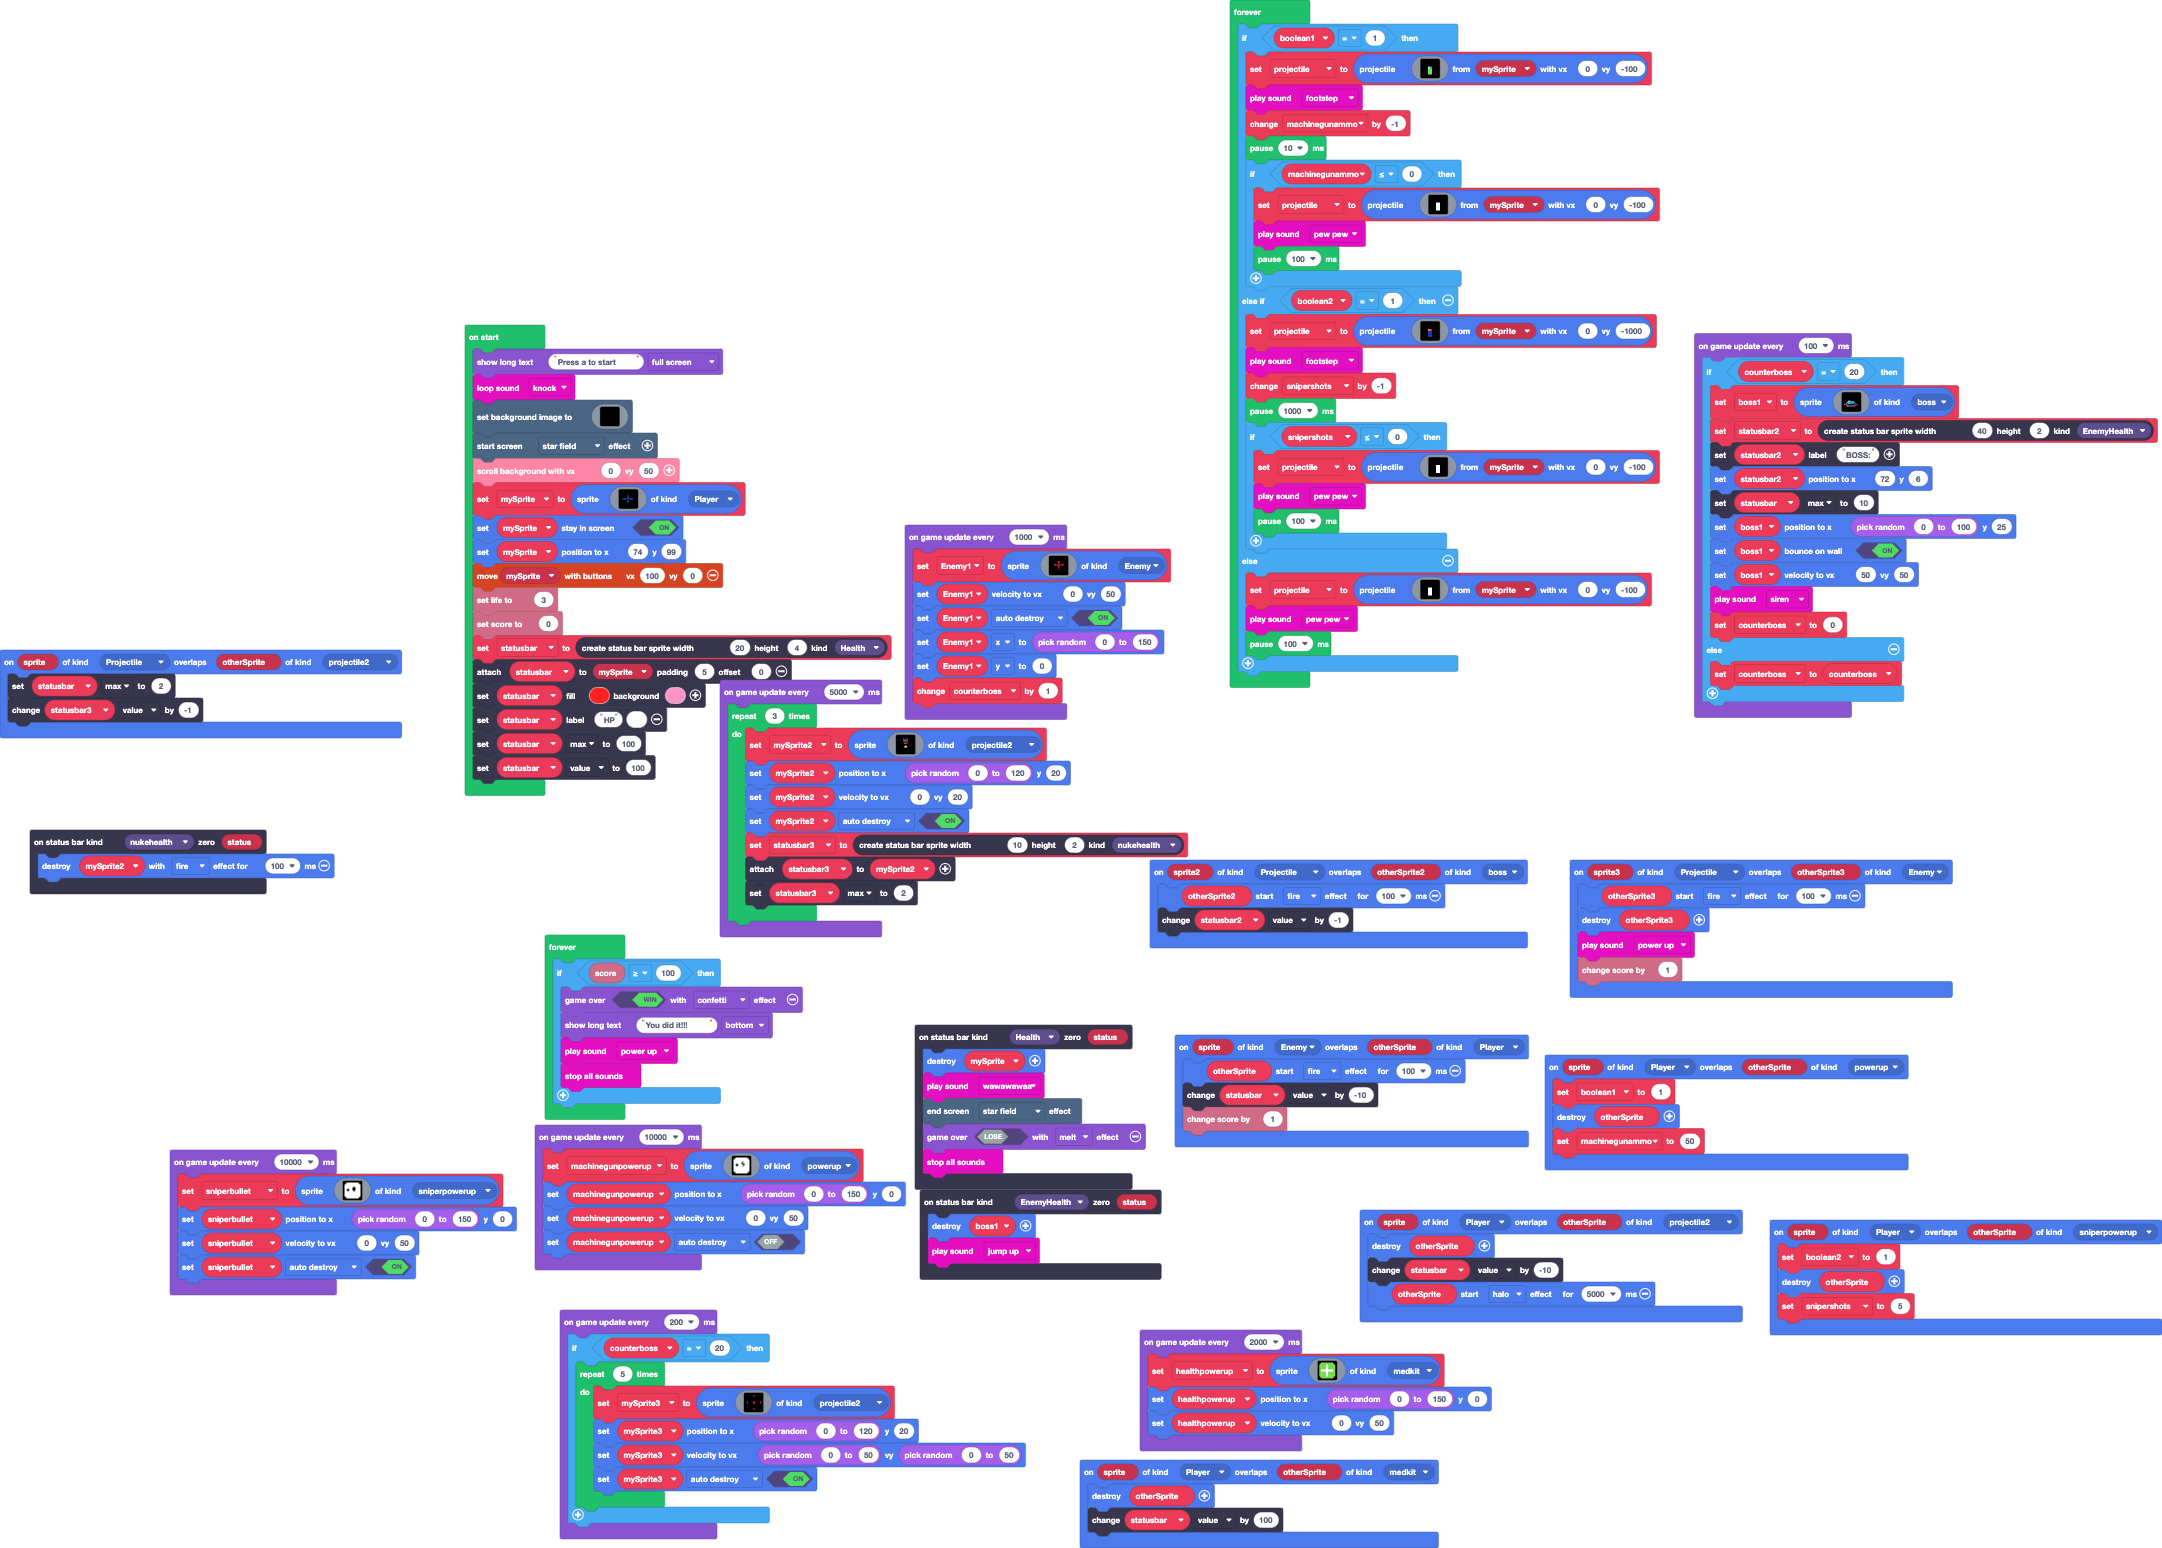
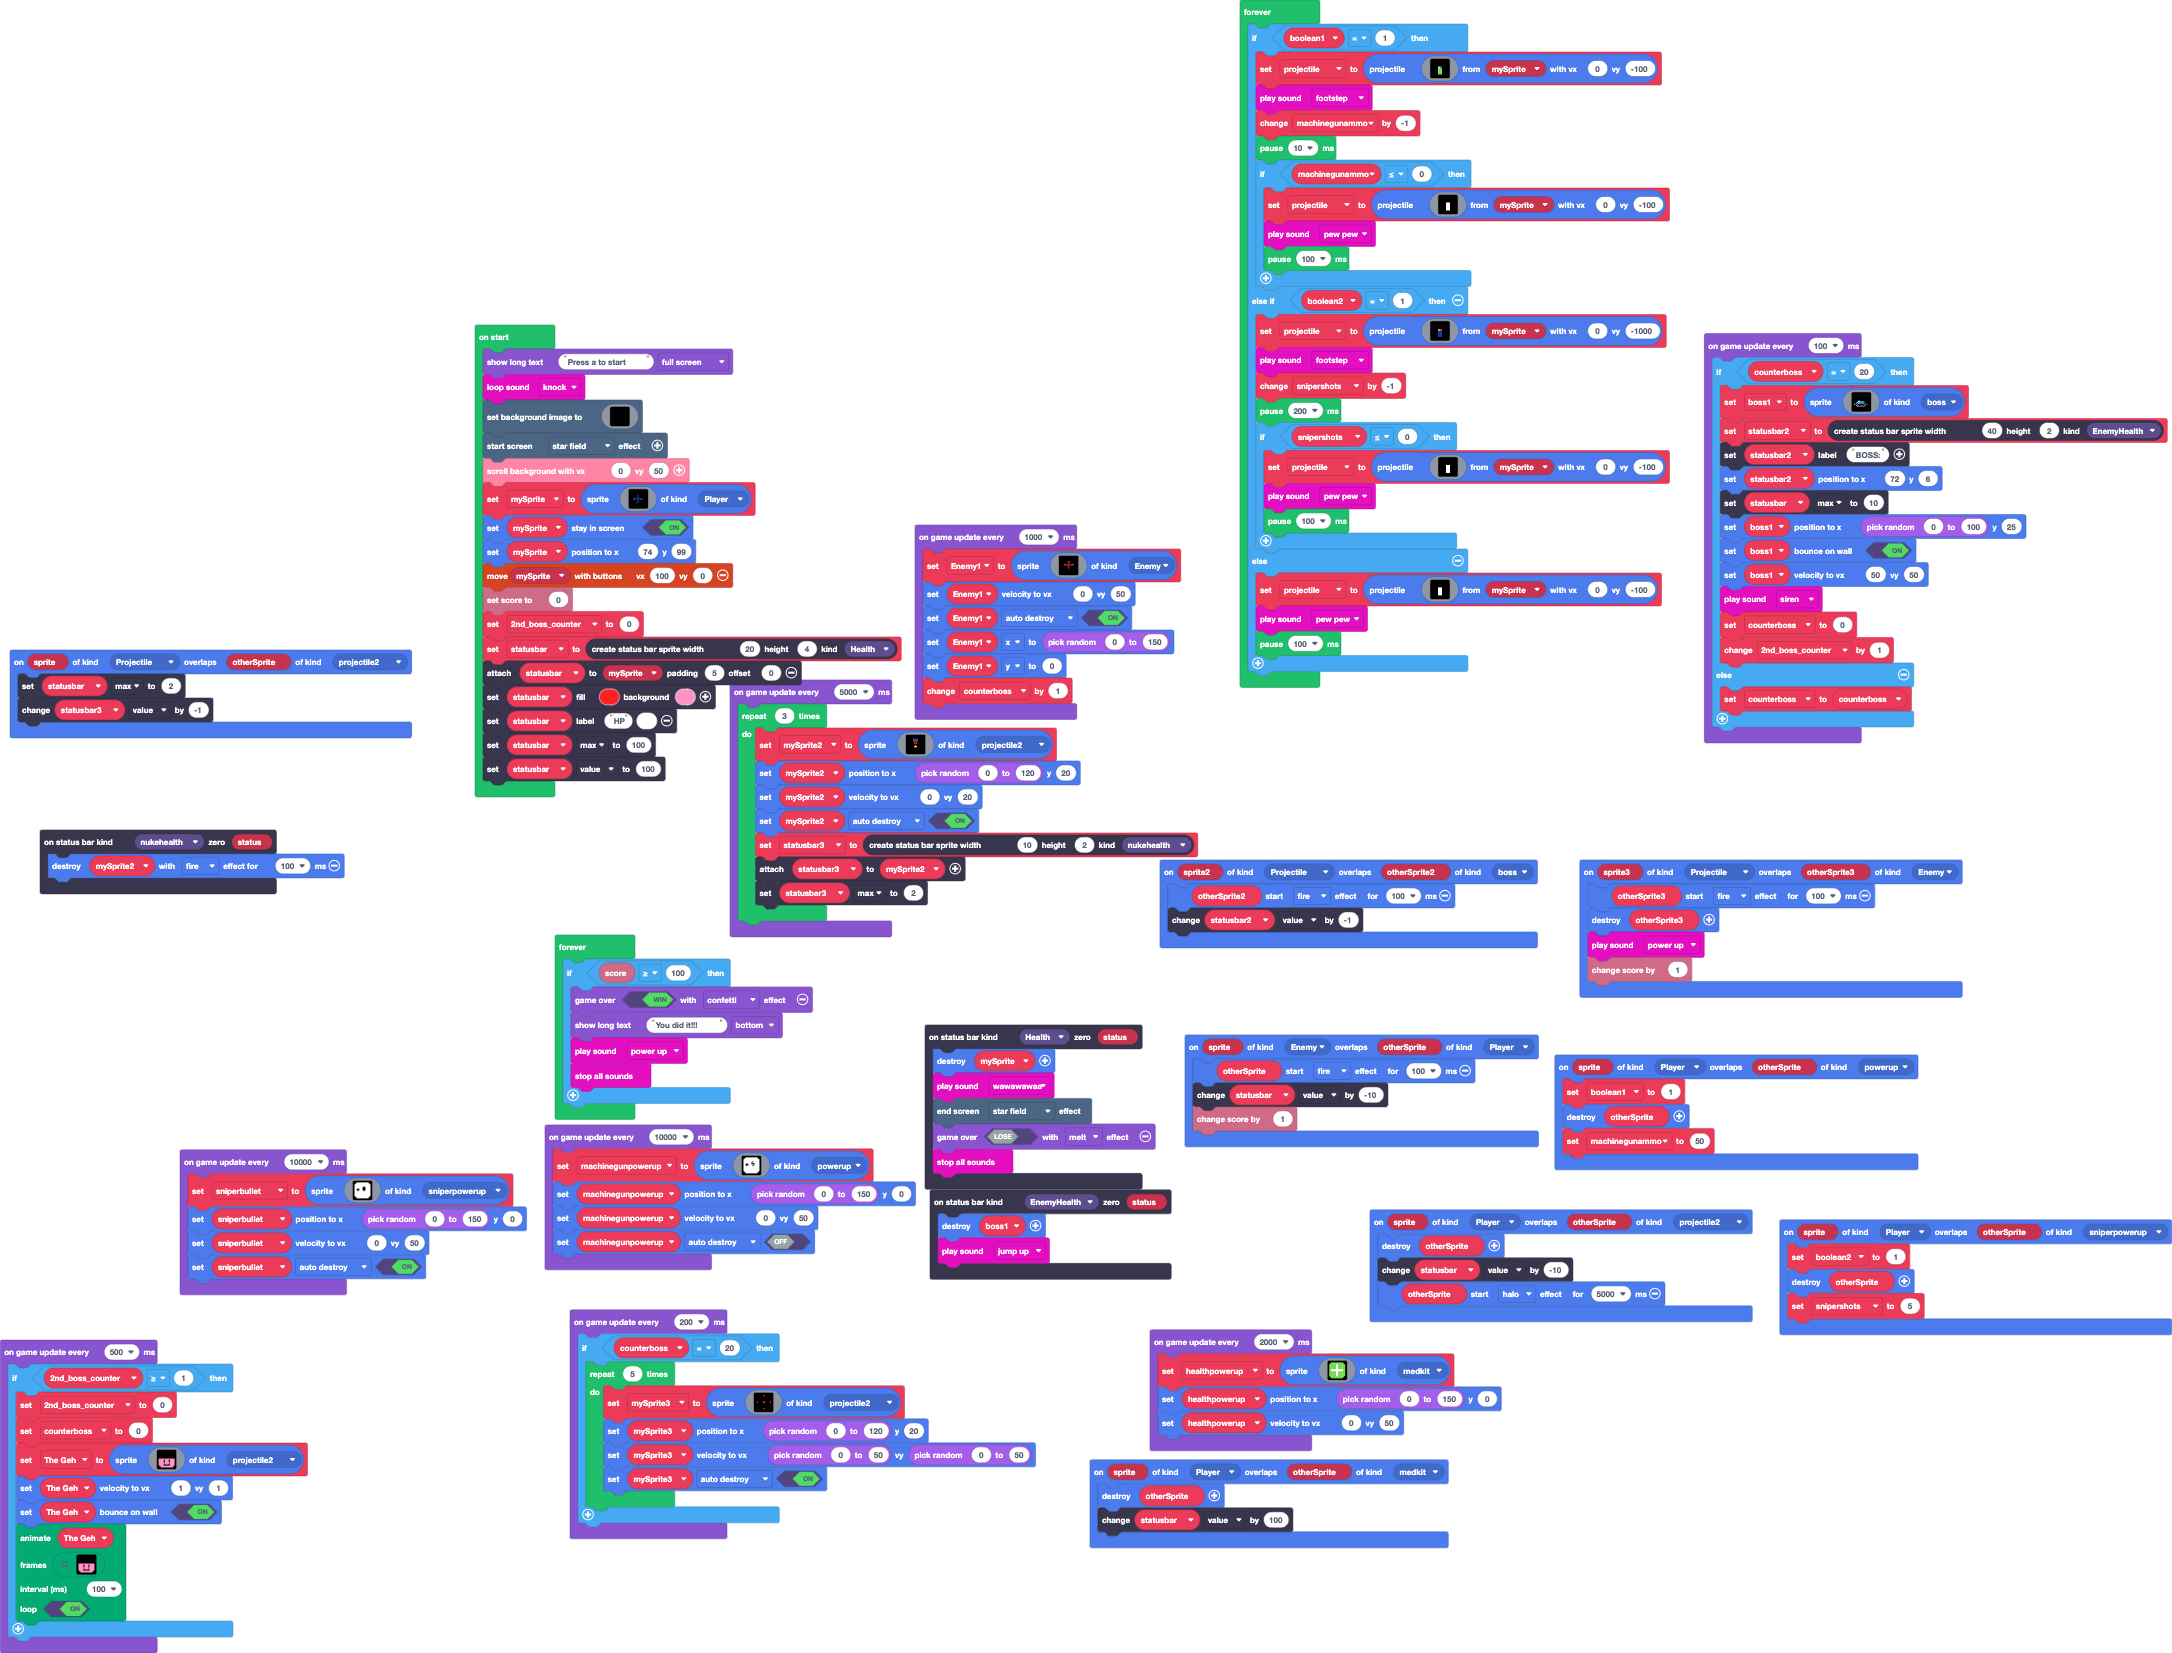
added another boss called "The GEH"

diff --git a/main.ts b/main.ts
@@ -65,6 +65,7 @@ sprites.onOverlap(SpriteKind.Projectile, SpriteKind.boss, function (sprite2, oth
 let sniperbullet: Sprite = null
 let machinegunpowerup: Sprite = null
 let mySprite3: Sprite = null
+let The_Geh: Sprite = null
 let projectile: Sprite = null
 let counterboss = 0
 let Enemy1: Sprite = null
@@ -226,8 +227,8 @@ mySprite = sprites.create(img`
 mySprite.setStayInScreen(true)
 mySprite.setPosition(74, 99)
 controller.moveSprite(mySprite, 100, 0)
-info.setLife(3)
 info.setScore(0)
+let _2nd_boss_counter = 0
 statusbar = statusbars.create(20, 4, StatusBarKind.Health)
 statusbar.attachToSprite(mySprite, 5, 0)
 statusbar.setColor(2, 3)
@@ -367,7 +368,7 @@ forever(function () {
             `, mySprite, 0, -1000)
         music.footstep.play()
         snipershots += -1
-        pause(1000)
+        pause(200)
         if (snipershots <= 0) {
             projectile = sprites.createProjectileFromSprite(img`
                 . . . . . . . . 
@@ -405,6 +406,38 @@ forever(function () {
         music.stopAllSounds()
     }
 })
+game.onUpdateInterval(500, function () {
+    if (_2nd_boss_counter >= 1) {
+        _2nd_boss_counter = 0
+        counterboss = 0
+        The_Geh = sprites.create(img`
+            . . f f f f f f f f f f f f . . 
+            . f f f f f f f f f f f f f f . 
+            f f f f f f f f f f f f f f f f 
+            f f f f f f f f f f f f f f f f 
+            f f f f f f f f f f f f f f f f 
+            f f f f f f f f f f f f f f f f 
+            f f f f f f f f f f f f f f f f 
+            3 3 3 3 3 3 3 3 3 3 3 3 3 3 3 3 
+            3 3 3 3 3 f 3 3 3 3 f 3 3 3 3 3 
+            3 3 3 3 3 f 3 3 3 3 f 3 3 3 3 3 
+            3 3 3 3 3 f 3 3 3 3 f 3 3 3 3 3 
+            3 3 3 3 3 3 3 3 3 3 3 3 3 3 3 3 
+            3 3 3 3 3 f 3 3 3 3 f 3 3 3 3 3 
+            3 3 3 3 3 f f f f f f 3 3 3 3 3 
+            . 3 3 3 3 3 3 3 3 3 3 3 3 3 3 . 
+            . . 3 3 3 3 3 3 3 3 3 3 3 3 . . 
+            `, SpriteKind.projectile2)
+        The_Geh.setVelocity(1, 1)
+        The_Geh.setBounceOnWall(true)
+        animation.runImageAnimation(
+        The_Geh,
+        assets.animation`Eric the GEH`,
+        100,
+        true
+        )
+    }
+})
 game.onUpdateInterval(100, function () {
     if (counterboss == 20) {
         boss1 = sprites.create(assets.image`Boss`, SpriteKind.boss)
@@ -417,6 +450,7 @@ game.onUpdateInterval(100, function () {
         boss1.setVelocity(50, 50)
         music.siren.play()
         counterboss = 0
+        _2nd_boss_counter += 1
     } else {
         counterboss = counterboss
     }

diff --git a/images.g.ts b/images.g.ts
@@ -28,7 +28,76 @@ f b c c c f f f f f f c c c c f
 
     helpers._registerFactory("animation", function(name: string) {
         switch(helpers.stringTrim(name)) {
-
+            case "Eric the GEH":
+            case "anim1":return [img`
+. . f f f f f f f f f f f f . . 
+. f f f f f f f f f f f f f f . 
+f f f f f f f f f f f f f f f f 
+f f f f f f f f f f f f f f f f 
+f f f f f f f f f f f f f f f f 
+f f f f f f f f f f f f f f f f 
+f f f f f f f f f f f f f f f f 
+3 3 3 3 3 3 3 3 3 3 3 3 3 3 3 3 
+3 3 3 3 3 f 3 3 3 3 f 3 3 3 3 3 
+3 3 3 3 3 f 3 3 3 3 f 3 3 3 3 3 
+3 3 3 3 3 f 3 3 3 3 f 3 3 3 3 3 
+3 3 3 3 3 3 3 3 3 3 3 3 3 3 3 3 
+3 3 3 3 3 f 3 3 3 3 f 3 3 3 3 3 
+3 3 3 3 3 f f f f f f 3 3 3 3 3 
+. 3 3 3 3 3 3 3 3 3 3 3 3 3 3 . 
+. . 3 3 3 3 3 3 3 3 3 3 3 3 . . 
+`, img`
+. . 3 3 3 3 3 3 3 f f f f f . . 
+. 3 3 3 3 3 3 3 3 f f f f f f . 
+3 3 3 3 3 3 3 3 3 f f f f f f f 
+3 3 3 3 3 3 3 3 3 f f f f f f f 
+3 3 3 3 3 3 3 3 3 f f f f f f f 
+3 3 f f 3 f f f 3 f f f f f f f 
+3 3 f 3 3 3 3 3 3 f f f f f f f 
+3 3 f 3 3 3 3 3 3 f f f f f f f 
+3 3 f 3 3 3 3 3 3 f f f f f f f 
+3 3 f 3 3 3 3 3 3 f f f f f f f 
+3 3 f f 3 f f f 3 f f f f f f f 
+3 3 3 3 3 3 3 3 3 f f f f f f f 
+3 3 3 3 3 3 3 3 3 f f f f f f f 
+3 3 3 3 3 3 3 3 3 f f f f f f f 
+. 3 3 3 3 3 3 3 3 f f f f f f . 
+. . 3 3 3 3 3 3 3 f f f f f . . 
+`, img`
+. . 3 3 3 3 3 3 3 3 3 3 3 3 . . 
+. 3 3 3 3 3 3 3 3 3 3 3 3 3 3 . 
+3 3 3 3 3 f f f f f f 3 3 3 3 3 
+3 3 3 3 3 f 3 3 3 3 f 3 3 3 3 3 
+3 3 3 3 3 3 3 3 3 3 3 3 3 3 3 3 
+3 3 3 3 3 f 3 3 3 3 f 3 3 3 3 3 
+3 3 3 3 3 f 3 3 3 3 f 3 3 3 3 3 
+3 3 3 3 3 f 3 3 3 3 f 3 3 3 3 3 
+3 3 3 3 3 3 3 3 3 3 3 3 3 3 3 3 
+f f f f f f f f f f f f f f f f 
+f f f f f f f f f f f f f f f f 
+f f f f f f f f f f f f f f f f 
+f f f f f f f f f f f f f f f f 
+f f f f f f f f f f f f f f f f 
+. f f f f f f f f f f f f f f . 
+. . f f f f f f f f f f f f . . 
+`, img`
+. . f f f f f 3 3 3 3 3 3 3 . . 
+. f f f f f f 3 3 3 3 3 3 3 3 . 
+f f f f f f f 3 3 3 3 3 3 3 3 3 
+f f f f f f f 3 3 3 3 3 3 3 3 3 
+f f f f f f f 3 3 3 3 3 3 3 3 3 
+f f f f f f f 3 f f f 3 f f 3 3 
+f f f f f f f 3 3 3 3 3 3 f 3 3 
+f f f f f f f 3 3 3 3 3 3 f 3 3 
+f f f f f f f 3 3 3 3 3 3 f 3 3 
+f f f f f f f 3 3 3 3 3 3 f 3 3 
+f f f f f f f 3 f f f 3 f f 3 3 
+f f f f f f f 3 3 3 3 3 3 3 3 3 
+f f f f f f f 3 3 3 3 3 3 3 3 3 
+f f f f f f f 3 3 3 3 3 3 3 3 3 
+. f f f f f f 3 3 3 3 3 3 3 3 . 
+. . f f f f f 3 3 3 3 3 3 3 . . 
+`];
         }
         return null;
     })
